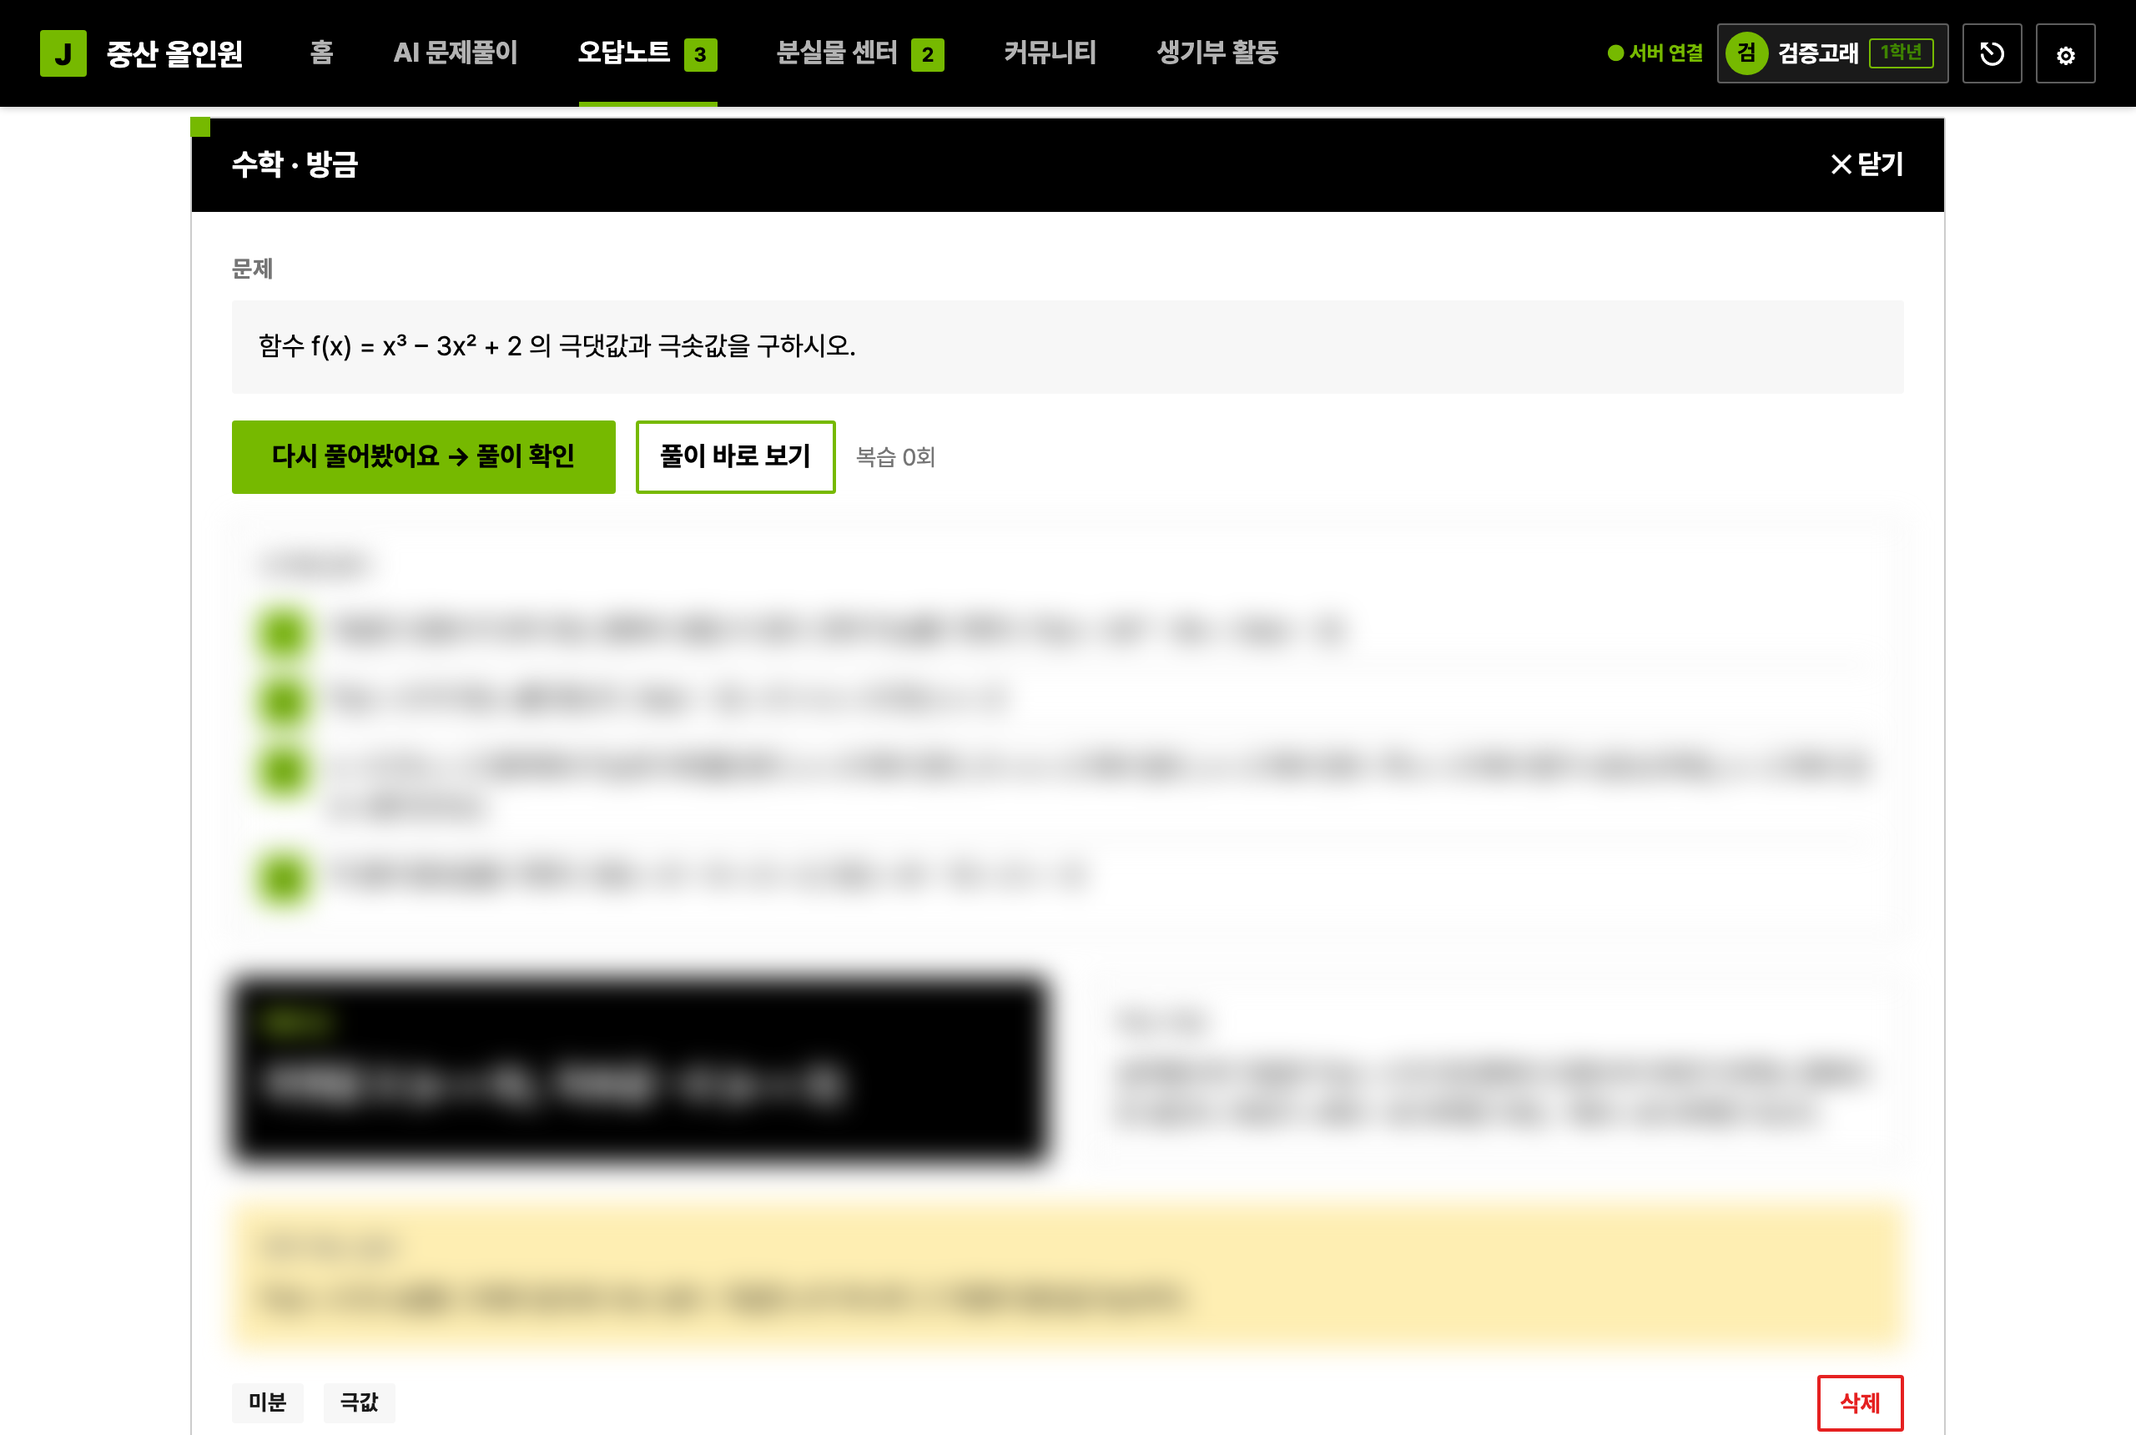
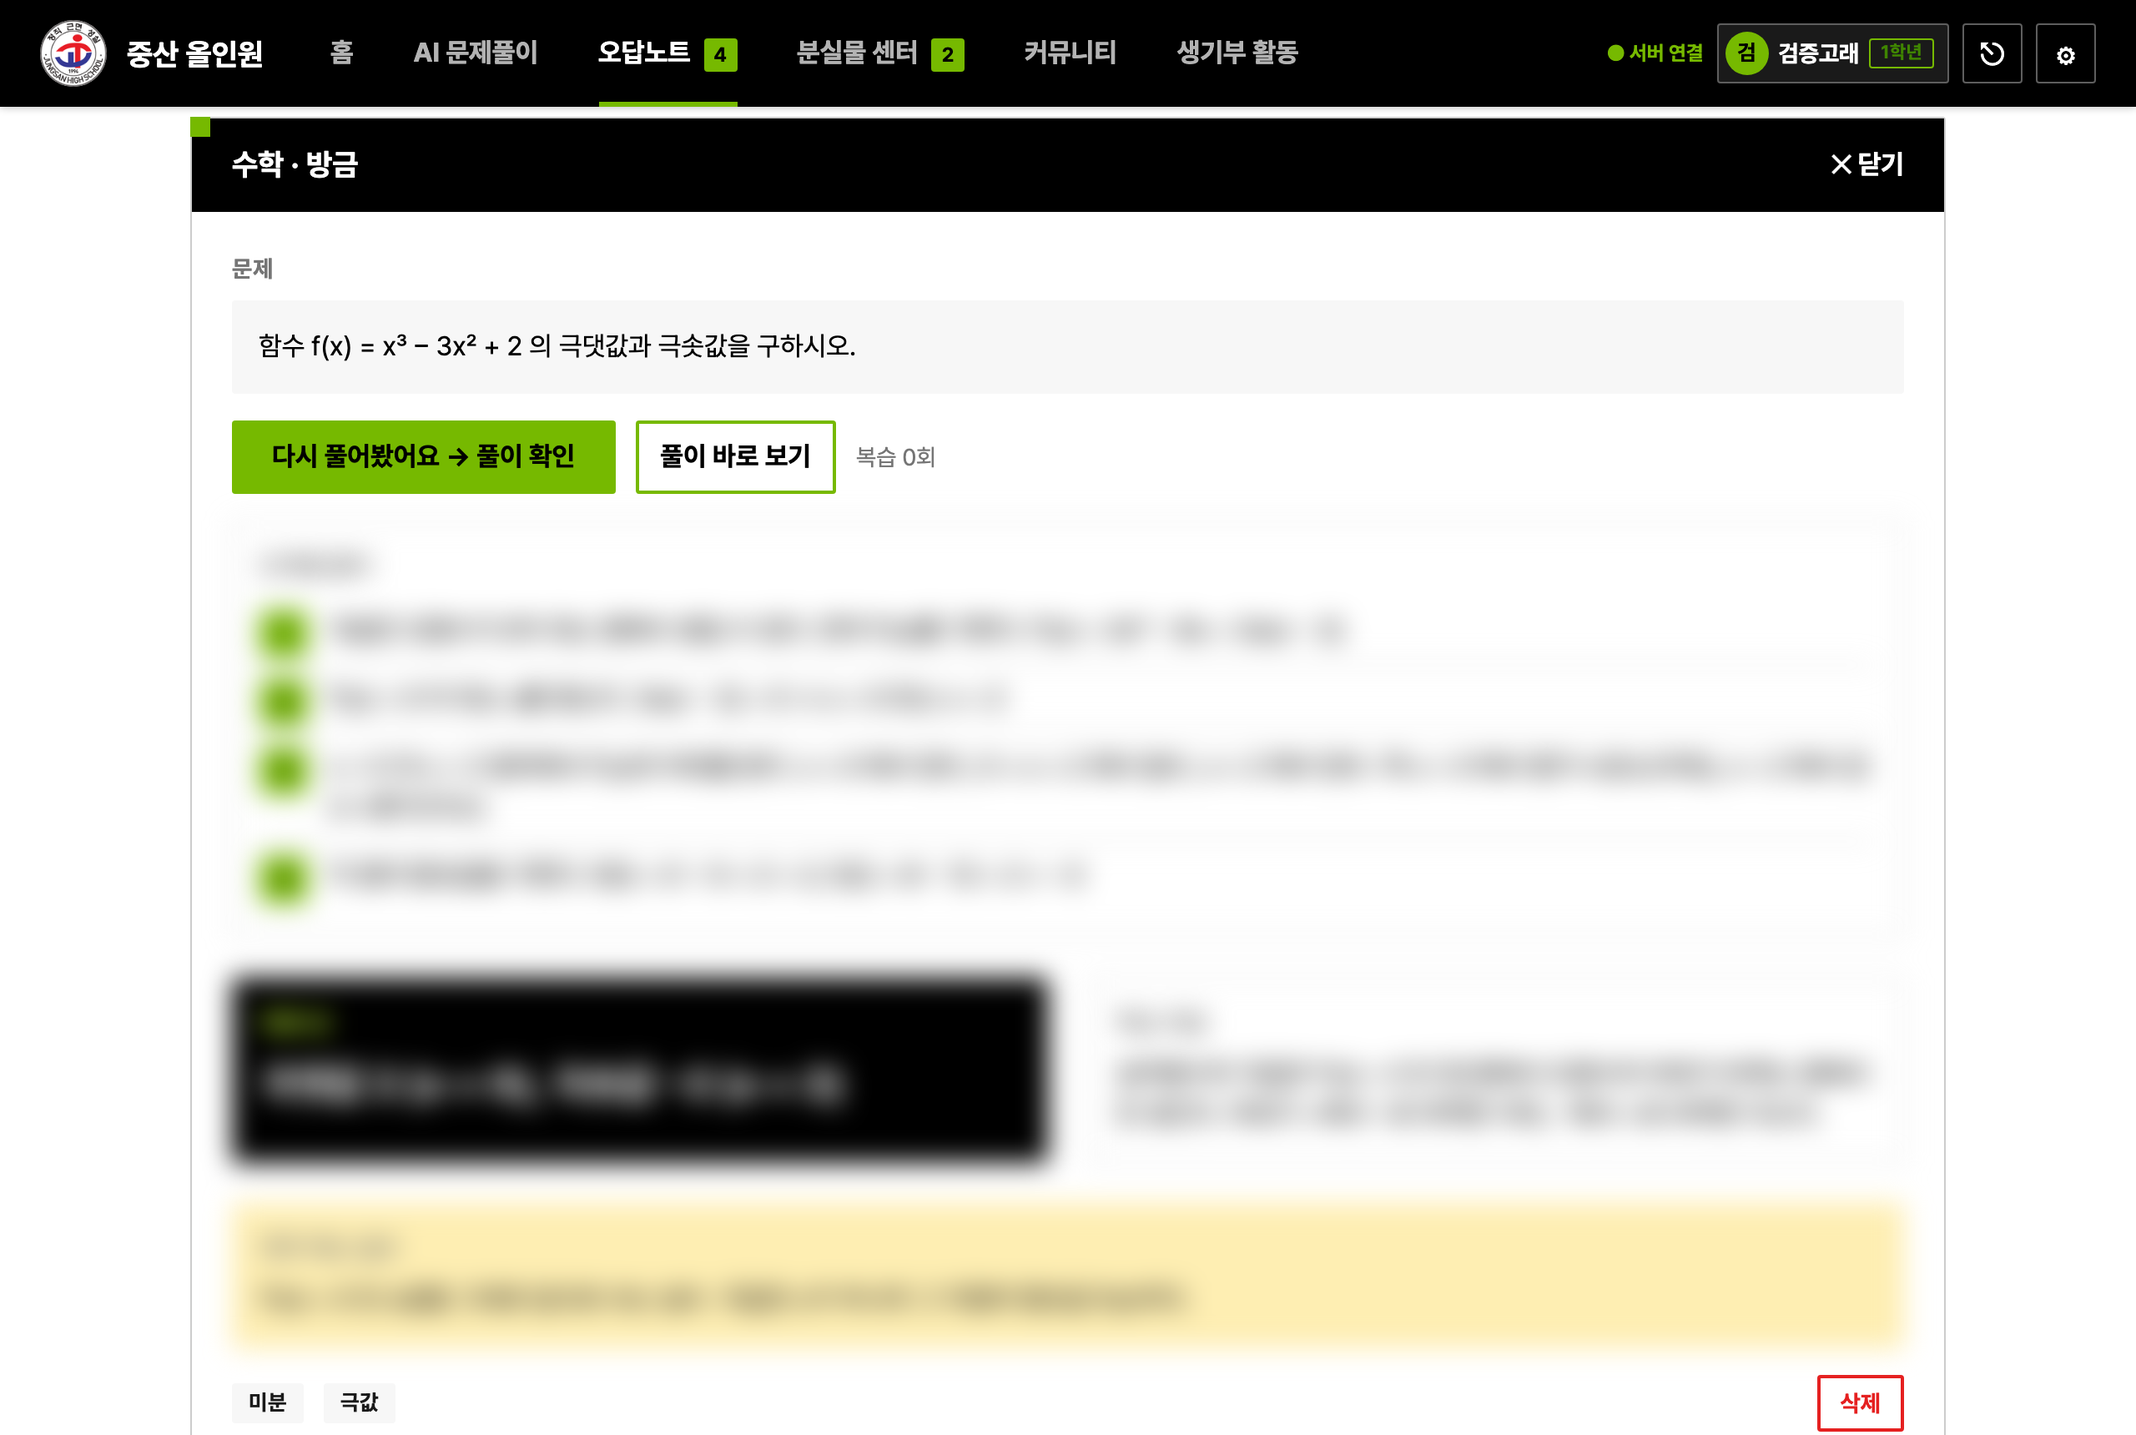
docs: README 전면 손질 (한 줄 소개·시나리오·범위·완성 체크·설계·파일 구조) + 교표 반영 스크린샷 6장 재촬영

Changed region(s): [[0.2812, 0.0308, 0.625, 0.0616], [0.0, 0.0, 0.25, 0.0616]]

diff --git a/README.md b/README.md
@@ -1,6 +1,6 @@
 # [innovators] 중산 올인원
 
-> 한 줄 소개: 혼자 공부하다 막힌 중산고 학생의 "모르는 문제"를 AI가 풀어 주고 자동으로 오답노트에 쌓아 주며, 분실물·학교 소식·커뮤니티까지 한 사이트에서 해결한다.
+> 한 줄 소개: 중산고 학생이 학교 계정 하나로 쓰는 올인원 사이트 — 모르는 문제는 AI가 풀어 오답노트에 쌓아 주고, 분실물은 학교 지도에 핀으로 찾고, 커뮤니티에서 공부 이야기를 나누며, 내 진로에 맞는 생기부 활동을 추천받는다.
 
 <!--
 ━━━━━━━━━━━━━━━━━━━━━━━━━━━━━━━━━━━━━━━━━━━━━━━━━━━━━━━━━━━━━
@@ -35,43 +35,45 @@
 
 ## 2. 해결
 
-**핵심 시나리오:** 고2 김솔버가 야자 중 수학 문제에 막힘 → 문제 텍스트를 입력(또는 사진 업로드)하고 "AI 풀이" 클릭 → AI가 문제를 인식해 단계별 풀이와 핵심 개념을 보여줌 → 풀이가 과목·태그·날짜와 함께 오답노트에 자동 저장됨 → 며칠 뒤 오답노트에서 풀이를 가리고 "다시 풀기"로 복습 → (덤) 같은 사이트 분실물 센터에 두고 온 이어폰을 등록
+**핵심 시나리오:** 고2 김솔버가 학교 구글 계정으로 로그인 → 이메일 주소에서 학년·반이 자동 설정되고 닉네임·희망 계열을 고름 → 야자 중 막힌 수학 문제를 입력하고 "AI 풀이" → 단계별 풀이·최종 답·핵심 개념·자주 하는 실수를 보고, 결과가 오답노트에 자동 저장됨 → 며칠 뒤 오답노트에서 풀이를 가리고 "다시 풀기"로 복습 → 두고 온 이어폰을 분실물 센터의 층별 지도에 핀을 찍어 등록, 다른 학생이 "찾았어요" → 커뮤니티 "질문" 게시판에 글을 올리고 선배의 답글에 추천 → 생기부 활동 탭에서 내 희망 계열 기준 추천 활동과 AI 분석 확인
 
 | 구분 | 기능 |
 | --- | --- |
 | 필수 (15:30까지 반드시) | ① 문제 텍스트 입력 → AI 단계별 풀이 (Gemini, 키는 서버 환경변수에만) ② 풀이 결과를 오답노트에 자동 저장 + 과목/태그별 목록 ③ 오답노트 상세·"다시 풀기"(풀이 가리기)·삭제 ④ 분실물 신고센터: 층별 지도에 핀 찍어 등록 / 층별 핀 지도 / "찾았어요" 처리 |
-| 선택 (시간이 남으면) | 문제 사진 업로드 → 이미지 인식 후 풀이 · 커뮤니티(Reddit 구조: 게시판·투표·대댓글·공유) · 학교 계정 로그인(이메일 규칙으로 학년·반 자동 인식, 첫 로그인 초기 설정) · 공유 서버(Express + Firestore)로 글·분실물·오답노트 저장 · 생기부 활동 모아보기 탭(마감 임박순·학년·생기부 영역 필터) |
-| 제외 (오늘 하지 않음) | 구글 워크스페이스 관리자 승인이 필요한 실제 구글 OAuth(버튼만 준비, 이메일 입력 로그인으로 대체) · 리로스쿨 실시간 크롤링 서버(학교 확인 필요) · 푸시 알림 · 신고/차단 기능 · 영구 DB(무료 서버의 파일 저장은 재배포 시 초기화) |
+| 선택 (시간이 남으면) | 문제 사진 업로드 → 이미지 인식 후 풀이 · 커뮤니티(Reddit 구조: 게시판·투표·대댓글·공유 링크) · 학교 구글 계정 로그인(이메일 규칙으로 학년·반 자동 인식, 첫 로그인 초기 설정) · 공유 서버(Express + Firestore)로 글·분실물·오답노트 영구 저장 · 생기부 활동 탭(마감 임박순·학년·영역 필터, 희망 계열별 진로 적합 점수, AI 분석) · 홈(실시간 숫자·최근 글·오늘의 할 일) · 잠든 서버 자동 깨우기 |
+| 제외 (오늘 하지 않음) | OAuth 앱 게시(지금은 등록된 테스트 사용자만 로그인) · 리로스쿨 실시간 크롤링 서버(해외 IP 차단으로 불가, 맥에서 3일마다 수집) · 푸시 알림 · 신고/차단·운영자 권한 · 오답노트 통계 |
 
 **완성 여부 (15:30 기준)**
-- [ ] 필수 1: 텍스트 문제 → AI 풀이 결과 표시
-- [ ] 필수 2: 풀이 → 오답노트 자동 저장, 목록·필터 동작
-- [ ] 필수 3: 오답노트 상세 / 다시 풀기 / 삭제 동작
-- [ ] 필수 4: 분실물 지도 핀 등록 / 핀 지도 / 찾았어요 동작
-- [ ] GitHub Pages 배포 링크에서 위 4개 동작
-- [ ] 선택: 사진 문제 풀이 / 커뮤니티 / 로그인 / 공유 서버 / 생기부 활동 탭
+- [x] 필수 1: 텍스트 문제 → AI 풀이 결과 표시 (배포 서버의 Gemini로 확인)
+- [x] 필수 2: 풀이 → 오답노트 자동 저장, 목록·필터 동작
+- [x] 필수 3: 오답노트 상세 / 다시 풀기 / 삭제 동작
+- [x] 필수 4: 분실물 지도 핀 등록 / 핀 지도 / 찾았어요 동작
+- [x] GitHub Pages 배포 링크에서 위 4개 동작 (서버 연결 상태로)
+- [x] 선택: 커뮤니티 / 학교 계정 로그인 / 공유 서버(Firestore) / 생기부 활동 탭·진로 점수 / 홈
+- [ ] 선택: 사진 문제 풀이 — 구현·사진 축소 동작 확인, 배포 서버에서 사진 인식은 발표 전 확인
 
 ## 3. 설계
 
-**화면 흐름:** 홈(탭 4개) → AI 문제풀이(입력) → 풀이 결과 → 오답노트 목록 → 오답노트 상세(다시 풀기) / 분실물 지도+목록 → 등록(지도에 핀) → 찾았어요 / 커뮤니티 피드(게시판·정렬) → 글 상세(투표·대댓글) → 글쓰기 / (우상단) 로그인 → 초기 설정 → 설정(내 계정)
+**화면 흐름:** 홈(히어로·숫자·기능 카드·최근 글) → [AI 문제풀이] 입력 → 풀이 결과 → [오답노트] 목록 → 상세(다시 풀기) / [분실물 센터] 층별 지도+목록 → 등록(지도에 핀) → 찾았어요 / [커뮤니티] 피드(게시판·정렬) → 글 상세(투표·대댓글) → 글쓰기 / [생기부 활동] 목록(진로 적합순) → AI 분석 / (우상단) 학교 계정 로그인 → 초기 설정(닉네임·희망 계열·기본 과목) → 설정(내 계정)
 
-**데이터 구조:** (서버 `server/db.json` 컬렉션. 서버가 없으면 브라우저 localStorage에 같은 구조로 저장)
+**데이터 구조:** (서버 → Firestore 컬렉션. 서비스 계정이 없으면 `server/db.json`, 서버가 없으면 브라우저 localStorage에 같은 구조로 저장)
 
 ```
-profiles: email, role(student|teacher), entryYear, grade, klass, number, nickname, subject, setupDone
+profiles: email, role(student|teacher), entryYear, grade, klass, number, nickname, subject, track(희망 계열), major, setupDone
 sessions: token → email
 posts:    id, createdAt, author, authorTag, community(study|qna|school|free), title, body, score(서버가 투표 합으로 계산)
 comments: id, postId, parentId(대댓글), createdAt, author, body, score
 votes:    닉네임 → { 글/댓글 id: +1 | -1 }
 lost:     id, createdAt, author, item, kind(lost|found), floor, x, y(지도 SVG 좌표), room, place, date, desc, contact, status(finding|found)
-notes:    id, createdAt, author, subject, tags[], question, imageDataUrl, steps[], answer, concept, pitfall, reviewCount, lastReviewed, source(ai|fallback|seed)  ※ 본인만 조회
+notes:    id, createdAt, author, subject, tags[], question, imageDataUrl, steps[], answer, concept, pitfall, reviewCount, lastReviewed, source(ai|fallback|seed), model  ※ 본인만 조회
+analysis: 계열|학과 → { at, model, items[{id, score, recommend, reason, tip}] }  (생기부 AI 분석 캐시, 24시간)
 ```
 
 **기술 선택:**
-- 선택: 프론트는 HTML + CSS + 바닐라 JS(빌드 없음, GitHub Pages). 서버는 Express 한 파일 + JSON 파일 저장(Render 무료). AI는 서버가 Gemini(gemini-2.5-flash)를 대신 호출. 로그인은 학교 이메일 규칙(입학년도-학번@jungsan.hs.kr → 학년·반·번호, 영문 포함 → 교사)으로 역할을 자동 인식하고 Google 토큰 검증은 서버에서. 지도는 팀이 오늘 그린 층별 안내도 SVG에서 벡터만 추출(80KB).
-  이유: 빌드·네이티브 모듈이 없어 설치와 배포가 실패할 여지가 적다. API 키는 서버 환경변수에만 있어 공개 저장소에 키가 들어가지 않는다. 서버가 죽어도 프론트가 localStorage로 자동 전환되어 발표가 멈추지 않는다.
-- 고르지 않은 안과 이유: React 등 프레임워크(빌드·충돌 부담), Firebase/Supabase(설정값이 저장소에 들어가 "키 금지" 규칙과 충돌), DeepSeek API(텍스트 전용이라 사진 문제 불가), SQLite(네이티브 빌드 실패 위험).
-- 막히면: AI 호출 실패 → 예시 풀이로 자동 대체. 서버 응답 없음 → 로컬 모드. 구글 로그인이 학교 워크스페이스에서 막히면 → 같은 규칙의 이메일 입력 로그인. Pages 반영 지연 → `python3 -m http.server`로 로컬 시연.
+- 선택: 프론트는 HTML + CSS + 바닐라 JS(빌드 없음, GitHub Pages). 서버는 Express 한 파일(Render 무료) + Firestore(Firebase Admin, 서비스 계정은 서버 비밀 파일). AI는 서버가 Gemini를 대신 호출하되 무료 플랜에서 되는 모델(gemini-3.5-flash-lite 등)을 자동으로 고름. 로그인은 Google Identity Services + 학교 이메일 규칙(입학년도-학번@jungsan.hs.kr → 학년·반·번호, 영문 포함 → 교사)으로 역할 자동 인식, 토큰 검증은 서버에서. 지도는 팀이 오늘 그린 층별 안내도 SVG에서 벡터만 추출(80KB). 디자인은 NVIDIA DESIGN.md 토큰(검정 프레임·흰 캔버스·녹색 액센트·2px 모서리).
+  이유: 빌드·네이티브 모듈이 없어 설치와 배포가 실패할 여지가 적다. API 키·서비스 계정은 서버 환경변수에만 있어 공개 저장소에 비밀값이 없다. 서버가 잠들거나 죽어도 프론트가 "서버 깨우는 중" → 로컬 모드로 자동 전환되어 발표가 멈추지 않는다.
+- 고르지 않은 안과 이유: React 등 프레임워크(빌드·충돌 부담), 프론트에서 Firebase/Supabase 직접 호출(설정값이 저장소에 들어가 "키 금지" 규칙과 충돌 → 서버 경유로만 사용), DeepSeek API(텍스트 전용이라 사진 문제 불가), SQLite(네이티브 빌드 실패 위험), Netlify Functions(함수 10초 제한이 AI 응답 시간보다 짧음), GitHub Actions로 리로스쿨 수집(해외 IP 차단).
+- 막히면: AI 호출 실패 → 다른 모델 재시도 → 예시 풀이. 서버 응답 없음 → 깨우기 재시도 → 로컬 모드. 구글 로그인이 막히면 → 서버 스위치(`ALLOW_DEMO_LOGIN=1`)로 같은 규칙의 이메일 입력 로그인. Pages 반영 지연 → `python3 -m http.server`로 로컬 시연.
 
 **파일 구조 (역할 분담 단위):**
 
@@ -85,11 +87,13 @@ js/solver.js       AI 풀이 입력·사진 축소·결과 렌더·오답노트 
 js/notes.js        오답노트 목록/상세/다시 풀기
 js/floors.js       층별 지도 벡터 데이터   js/map.js  지도 컴포넌트(핀 찍기/표시)
 js/lost.js         분실물 센터            js/community.js  커뮤니티(Reddit 구조)
-js/home.js         홈(히어로·숫자·최근 글)  js/activities.js  생기부 활동 탭(오늘 작성)
-server/index.js    Express API(컬렉션·로그인·투표 점수·Gemini 프록시·Firestore 저장)
+js/home.js         홈(히어로·카운트업·스크롤 등장·오늘의 할 일)   js/activities.js  생기부 활동 탭(진로 적합 점수·AI 분석, 오늘 작성)
+server/index.js    Express API(컬렉션·로그인·투표 점수·Gemini 프록시·활동 AI 분석·Firestore 저장)
+assets/            학교 교표(emblem.png)와 크기별 아이콘
 data/seed.json     데모 데이터   data/config.json  서버 주소   data/activities.json  생기부 활동 목록(교사 실명 제거)
-tools/riro-notifier/  리로스쿨 활동 수집 도구 — 팀원이 만든 도구를 데이터 출처로 사용. 평가 대상 기능이 아님
-docs/PLAN.md       개발 계획
+tools/riro-notifier/  리로스쿨 활동 수집 도구 — 팀원이 만든 도구를 데이터 출처로 사용(평가 대상 아님). auto_update.py 가 3일마다 수집→정제→push
+.github/workflows/ 서버 깨우기(10분), 수집 워크플로(수동 전용)
+docs/PLAN.md       개발 계획   docs/img/  실행 화면
 ```
 
 ## 4. 실행 링크·실행 방법
@@ -111,7 +115,7 @@ npm start                                           # http://localhost:8787
 
 ## 5. 실행 화면
 
-핵심 시나리오 순서대로. (로컬 데모 계정으로 캡처, 가짜 데이터)
+핵심 시나리오 순서대로. (로컬 데모 계정 "검증고래"로 캡처, 가짜 데이터)
 
 **① 홈 — 다섯 기능을 한 화면에서, 로그인하면 닉네임만 표시**
 ![홈](docs/img/01-home.png)
@@ -128,7 +132,7 @@ npm start                                           # http://localhost:8787
 **⑤ 커뮤니티 — 게시판·추천·대댓글 (Reddit 구조)**
 ![커뮤니티](docs/img/05-community.png)
 
-**⑥ 생기부 활동 — 희망 계열 기준 진로 적합 점수와 AI 분석**
+**⑥ 생기부 활동 — 희망 계열(컴퓨터·SW) 기준 진로 적합 점수, "AI 분석" 버튼으로 추천 이유·팁 추가**
 ![생기부 활동](docs/img/06-activities.png)
 
 ## 6. AI 활용
@@ -156,7 +160,7 @@ npm start                                           # http://localhost:8787
 **AI 결과에서 직접 고친 부분:**
 - AI가 제안한 "데모 계정 전환 + 브라우저 저장" 구조를 버리고 **학교 계정 로그인 + 공유 서버 + Firestore**로 바꾸도록 방향을 정함 (실제 서비스처럼 돌게 하자는 결정)
 - 설정 화면에 API 키·서버 주소가 노출되는 설계를 지적해 **내부 설정을 개발자 전용(?dev=1)으로 분리**
-- 홈 히어로가 AI 풀이만 강조하던 것을 **네 기능 동등 구성**으로 수정, 히어로를 전체 폭으로
+- 홈 히어로가 AI 풀이만 강조하던 것을 **다섯 기능 동등 구성**으로 수정, 히어로를 전체 폭으로, 교표를 실제 학교 교표로 교체, 교표의 상하 움직임은 빼 달라고 지시
 - 리로스쿨 수집 도구를 저장소에 넣을지, 출처를 어떻게 적을지 결정 (팀원 제작 도구로 명시)
 - Gemini 모델 선택: 무료 플랜에서 되는 모델을 서버가 자동으로 고르게 하자는 방향 결정
 
